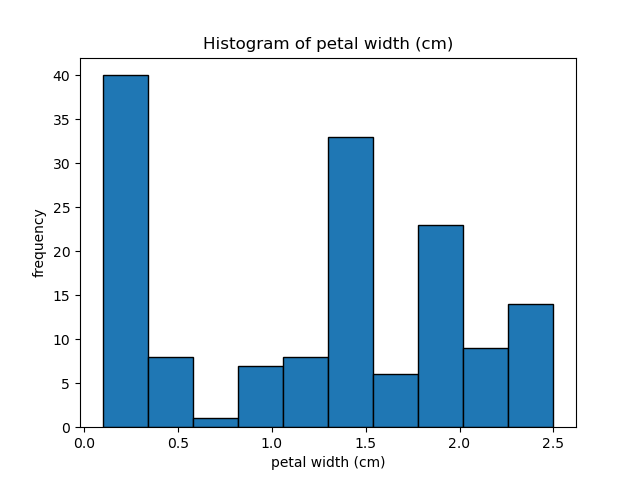
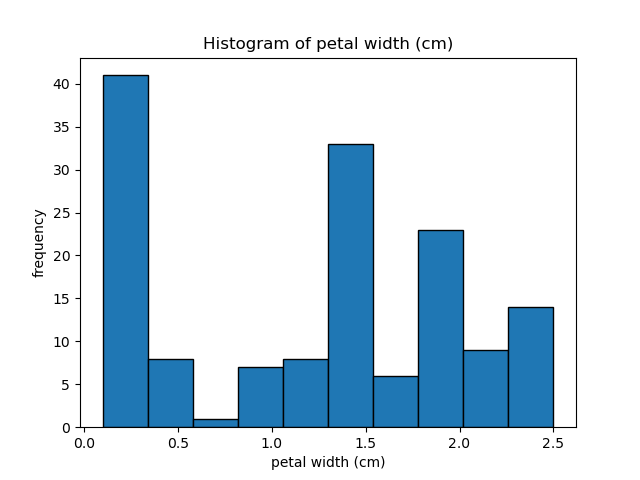
Header removal for better data accuracy.

diff --git a/analysis.py b/analysis.py
@@ -29,8 +29,7 @@ filename = "iris_data.csv"
 # A DataFrame is a two-dimensional data structure with rows and columns, like a table or array.
 # Resource: https://www.w3schools.com/python/pandas/pandas_dataframes.asp
 # Read the file
-df = pd.read_csv(filename)
-df = df.dropna(how='all')
+df = pd.read_csv(filename, header=None)
 
 
 # Add column names to the DataFrame
@@ -122,8 +121,9 @@ for column_name in df.columns[:-1]:  # Exclude the last column (species)
     #plt.show()
     plt.savefig(f"{column_name}_histogram.png") # This will save the plots to a png file.
 
-    # Explanation of each histogram:
-    # Lenght sepal, 5.5 and 6.5 cm, is the most common size of the sepal. 5.8 cm is the mean.
-    # Width sepal, 3 cm, is the most common size of the sepal. 3.0 cm is the mean.
-    # Length petal, 1 and 5 cm, is the most common size of the petal. 3.7 cm is the mean.
-    # Width petal, 0.1 and 1.5 cm, is the most common size of the petal. 1.2 cm is the mean.
+# Explanation of each histogram:
+# Lenght sepal, 5.5 and 6.5 cm, is the most common size of the sepal. 5.8 cm is the mean.
+# Width sepal, 3 cm, is the most common size of the sepal. 3.0 cm is the mean.
+# Length petal, 1 and 5 cm, is the most common size of the petal. 3.7 cm is the mean.
+# Width petal, 0.1 and 1.5 cm, is the most common size of the petal. 1.2 cm is the mean.
+
